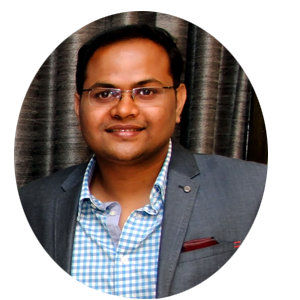
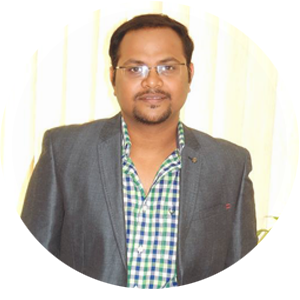
updated profile pic, My resume section, and blog snapshot

diff --git a/index.html b/index.html
@@ -62,8 +62,8 @@
           <h3>Software Developer</h3>
           <p> A Thinker, Innovator,  Enthusiastic Software Developer, Amateur sketch maker, Recreational Singer, Thought Leader. Sometimes clumsy. :-) </p>
           <p> </p>
-          <p>I've 2.5 years of Experience in Java Development. Currently, working as a Software Engineer in Cybage Software Pvt. Ltd, Pune.</p>
-          <p>Previously, I was working for Tata Consultancy Services.</p>
+          <p>I've 3.5 years of Experience in Java Development. Currently, working as a Software Engineer(Advanced) in Amdocs, Pune, India</p>
+          <p>Previously, I was working for Cybage Software Pvt. Ltd and Tata Consultancy Services.</p>
           <a href="mailto:jyotiranjanpattnaik@gmail.com?subject=Hey Jrp" class="hire-me"><i class="icon-paper-plane"></i>Say Hi!</a>
           <div class="row social">
             <ul class="social-icons">
@@ -127,7 +127,7 @@
             </div>
           </div>
           <div class="span5">
-            <h3>Git, SVN, Maven, CI, JIRA, HP QC, Agile, Linux <span>85%</span></h3>
+            <h3>Git, SVN, Perforce, Maven, Jenkin CI, JIRA, HP QC, Agile, Linux <span>85%</span></h3>
             <div class="expand-bg"> <span class="expand css2"> &nbsp; </span> </div>
           </div>
         </div>
@@ -138,10 +138,10 @@
         <h2>My Work</h2>
         <ul class="work-images">
           <li>
-            <p>when I was @TCS ...</p><div><a class="fancybox-thumb" rel="fancybox-thumb" href="img/Creditsuisse.PNG"><img src="img/TCS-CS.png" /></a></div>
+            <p>My TCS days ...</p><div><a class="fancybox-thumb" rel="fancybox-thumb" href="img/Creditsuisse.PNG"><img src="img/TCS-CS.png" /></a></div>
           </li>
           <li>
-            <p>My Bloglet</p><div><a class="fancybox-thumb" rel="fancybox-thumb" target="_blank" href="http://wilt.iamjrp.com/" title="My Bloglet"><img src="img/wilt.png" /></a></div>
+            <p>Sharing d' Learning ...</p><div><a class="fancybox-thumb" rel="fancybox-thumb" target="_blank" href="http://wilt.iamjrp.com/" title="My Blog"><img src="img/wilt.png" /></a></div>
           </li>
           
         </ul>
@@ -159,10 +159,14 @@
       <!-- Resume container -->
       <div id="resume" class="container">
         <h2>My Resume</h2>
-        <h3>You can download my resume for your reference and I hope that we will meet very soon! :)</h3>
+        <!-- <h3>You can download my resume for your reference and I hope that we will meet very soon! :)</h3>
         <div class="btn-center"> <a href="img/JyotiranjanPattnaik-java-2.5years.pdf" target="_blank" class="hire-me"><i class="icon-download"></i> Download Resume</a>
           <h2>500kb</h2>
-        </div>
+        </div> -->
+        <h3>Currently, I am not looking for any job change, still if you have some interesting stuff for me, You can drop me a mail. I will get back to you :)</h3>
+        <div class="btn-center">
+        	<a href="mailto:jyotiranjanpattnaik@gmail.com?subject=Hey Jrp" class="hire-me"><i class="icon-paper-plane"></i>Inbox me</a>
+       	</div>
       </div>
       <!--END: Resume container-->
       <!-- Social Icons -->
